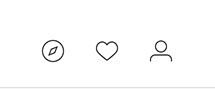
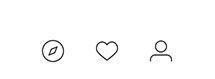
floating right

diff --git a/index.css b/index.css
@@ -1,3 +1,8 @@
+#buttonions {
+  float: right;
+  margin-top: none;
+}
+
 #title {
   font-family: "freight-big-pro";
   font-style: italic;
@@ -9,8 +14,4 @@
 #logo {
   display: inline-block;
   margin-right: 5px;
-}
-
-#buttonions {
-  display: inline-block;
 }
